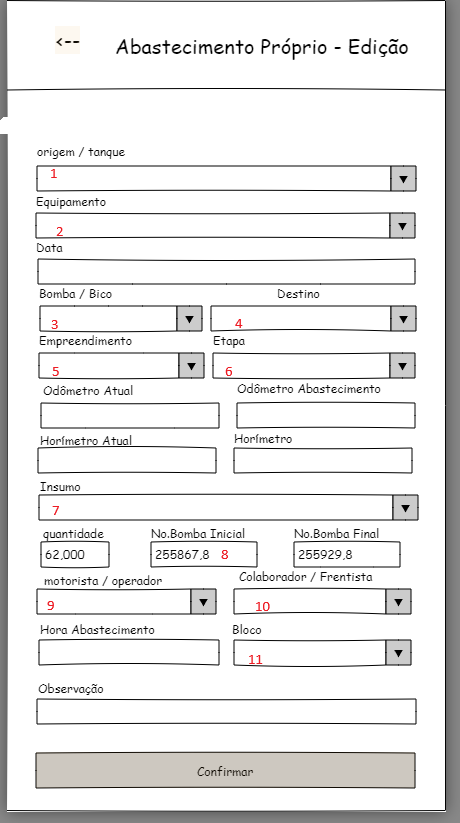
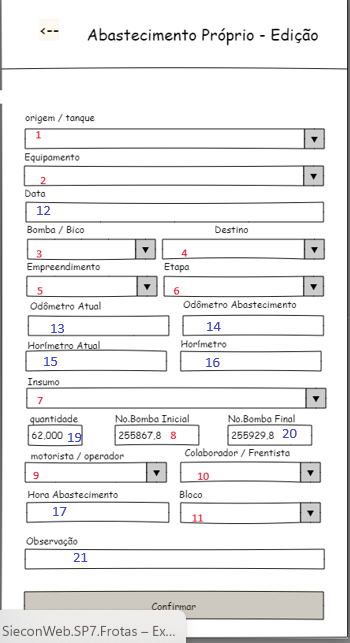
1.Ticket:514781 1.1. Cli. Poliview 1.2. Info: API web para Requisição com OS e Abastecimento

diff --git a/Documentacao/Frt_ApiFrotas.md b/Documentacao/Frt_ApiFrotas.md
@@ -53,24 +53,150 @@
 ** **Obs.** O Campo  tpAbastecimento = 0  --> Abastecimento próprio ,
                      tpAbastecimento = 1  --> Abastecimento em Postos
 
-##### 1.3. API para utilização conforme layout -Pesquisa Abastecimento Próprio
+##### 1.3. /api/frotas/Abastecimentos/ConsultaBomba
+* **Listas as Bombas de Abastecimentos**
+
+```json
+{
+{
+    "bombaCod": "string",
+    "bombaDescricao": "string",
+    "tipo": "string",
+    "tipoDesc": "string",
+    "ctrNumeracao": 0,
+    "bombaNumeracao": 0,
+    "bloqueado": 0,
+    "bombaCodExterno": 0,
+    "entidadeCod": 0,
+    "empreendimentoCod": 0,
+    "empreendimentoId": "3fa85f64-5717-4562-b3fc-2c963f66afa6",
+    "entidadeId": "3fa85f64-5717-4562-b3fc-2c963f66afa6",
+    "bombaId": "3fa85f64-5717-4562-b3fc-2c963f66afa6"
+  }
+}
+```  
+##### 1.4. /api/frotas/Abastecimentos/ConsultaBico
+* **Lista os bicos de abastecimentos referente a bomba**
+```json
+{ 
+  {
+    "bicoCdg": 0,
+    "bombaCod": "string",
+    "bicoDescricao": "string",
+    "bicoCodExterno": 0,
+    "bicoId": "3fa85f64-5717-4562-b3fc-2c963f66afa6",
+    "bombaDescricao": "string",
+    "bombaId": "3fa85f64-5717-4562-b3fc-2c963f66afa6"
+  }
+}
+```  
+##### 1.5. /api/frotas/Abastecimentos/ConsultaDestinoAbastecimentos
+* **Lista os Destinos referente ao lançamento do abastecimento **
+```json
+{
+  {
+    "destino": "EQ",
+    "destinoDesc": "Equipamento",
+    "destinoTipo": "M",
+    "destinoid": "00000000-0000-0000-0000-000000000000",
+    "emprdCod": 0,
+    "emprdId": "00000000-0000-0000-0000-000000000000"
+  },
+  {
+    "destino": "02",
+    "destinoDesc": "BOMBA 002",
+    "destinoTipo": "B",
+    "destinoid": "7cd6573e-0853-482f-a5e5-129f9fd1b5e2",
+    "emprdCod": 50,
+    "emprdId": "72603b1c-7037-4bca-b74e-3267a6c6b972"
+  },
+  {
+    "destino": "03",
+    "destinoDesc": "CAMBOIO 001",
+    "destinoTipo": "C",
+    "destinoid": "47727e15-af67-4dad-a580-73caf5afda2d",
+    "emprdCod": 50,
+    "emprdId": "72603b1c-7037-4bca-b74e-3267a6c6b972"
+  },
+  {
+    "destino": "DV",
+    "destinoDesc": "Devolução Estoque emprd.",
+    "destinoTipo": "D",
+    "destinoid": "00000000-0000-0000-0000-000000000000",
+    "emprdCod": 0,
+    "emprdId": "00000000-0000-0000-0000-000000000000"
+  }
+  
+}
+```  
+##### 1.6. /api/frotas/Abastecimentos/ConsultaAplicacaoPrevEquipInsumo
+* **Lista todas Itens no controle de preventivo do equipamento com sua aplicação**
+```json
+{
+   {
+    "aplicacaoCdg": 0,
+    "aplicacaoDescr": "string",
+    "aplicacaoId": "3fa85f64-5717-4562-b3fc-2c963f66afa6",
+    "insumoCod": "string",
+    "insumoDesc": "string",
+    "insumoId": "3fa85f64-5717-4562-b3fc-2c963f66afa6",
+    "quantidade": 0
+  }
+}
+```  
+##### 1.7. /api/frotas/Abastecimentos/ConsultaEstoqueComboio
+* **Lista todos os insumos que estão no estoque do Comboio**
+```json
+{
+  {
+    "insumoCdg": "03.03.0012",
+    "insumoDescr": "COMBUSTIVEL (DIESEL S-10)",
+    "insumoId": "9da5914f-e527-4002-a92b-3c150c30fbd6",
+    "unidade": "L         ",
+    "quantidade": 5000,
+    "partnumber": null,
+    "fabricante": null,
+    "origem": 1,
+    "pnsimilar": 0,
+    "entidadeCod": 1,
+    "entidadeId": "5bf70be2-54cb-4a52-abd5-a087c5ee6f37",
+    "controleAbastecimento": 1
+  }
+  
+}
+```  
+##### 1.8. /api/frotas/Abastecimentos/ConsultaUltimoNumeroBico
+* **Mostra o último número  utilizado na bomba**
+```json
+{
+   "numeracao": 0,
+    "abastecimentoData": "2025-10-29T20:00:02.842Z",
+    "abastecimentoCod": 0,
+    "abastecimentoId": "3fa85f64-5717-4562-b3fc-2c963f66afa6"
+}
+```  
+##### 1.9. /api/frotas/Abastecimentos/GravaAbastecimento
+* **Grava o abastecimento próprio ou de posto**
+
+
+##### 1.10. API's para utilização conforme layout -Pesquisa Abastecimento Próprio
 
 ![](./Frt_ApiFrotas/image4.png)
 
 * 1 - "Origem/Tanque"     --> Utilizar a  /api/frotas/Abastecimentos/ConsultaBomba
-* 2 - "Equipamento"       --> Utilizar a  /api/frotas/Lookups/Equipamentos
+* 2 - "Equipamento"       --> Utilizar a  /api/frotas/Lookups/EquipamentosMobile
 
 **Utilizar a Api para consulta dos abastecimentos:  /api/frotas/Abastecimentos/ConsultaAbastecimento** com o parâmetro fixo:
 "TpAbastecimento" = 0 ;
 
 Para retornar somente os abastecimentos com a origem do App, passar o parâmetro "Origem"  = 3
 
-##### 1.4. API para utilização conforme layout -Grava Abastecimento Próprio
+##### 1.11. API para utilização conforme layout -Grava Abastecimento Próprio
 
 ![](./Frt_ApiFrotas/image5.png)
 
 * 1 - "Origem/Tanque"         --> Utilizar a  /api/frotas/Abastecimentos/ConsultaBomba
-* 2 - "Equipamento"           --> Utilizar a  /api/frotas/Lookups/Equipamentos .
+* 2 - "Equipamento"           --> Utilizar a  /api/frotas/Lookups/EquipamentosMobile .
 * 3 - "Bico"                  --> Utilizar a  /api/frotas/Abastecimentos/ConsultaBico.  **Passar como parâmetro(Id) o bombaId selecionado na consulta da Bomba  "**
 * 4 - "Destino"               --> Utilizar a  /api/frotas/Abastecimentos/ConsultaDestinoAbastecimentos **Passar como parâmetro(bombaId) o bombaId selecionado na consulta da Bomba  "**
 * 5 - "Empreendimento"        --> Utilizar a  /api/cadastros/Lookups/Empreendimentos     **Carregar a Combo do empreendimento com o Emprd. de retorno da Seleção "Origem/Tanque**
@@ -78,22 +204,35 @@ Para retornar somente os abastecimentos com a origem do App, passar o parâmetro
 * 7 - "Insumo"                --> Utilizar a  /api/frotas/Abastecimentos/ConsultaEstoqueComboio **Passar como parâmetro(bombaId), selecionado na Consulta Bomba**
 * 8 - "BombaInicial"          --> Utilizar a /api/frotas/Abastecimentos/ConsultaUltimoNumeroBico **Passar como parâmetros(bombaId e bicoId ), selecionado nas consultas ConsultaBomba e      ConsultaBico**
 * 9 - "Motorista/Operador"    --> Utilizar a /api/frotas/OrdensServico/ConsultaColaborador com o parâmetro "Classificacao" = 1
-  *10 - "Colaborador Frentista" --> Utilizar a /api/cadastros/Lookups/Pessoas   **Passar como parâmetro("tipoPessoa": "Funcionário")**
-  *11 - "Bloco"                 --> Utilizar /api/cadastros/Lookups/Unidades  **Passar como parâmetro(empreendimentoId), selecionado na consulta do empreendimento**
+* 10 - "Colaborador Frentista" --> Utilizar a /api/cadastros/Lookups/Pessoas   **Passar como parâmetro("tipoPessoa": "Funcionário")**
+* 11 - "Bloco"                 --> Utilizar /api/cadastros/Lookups/Unidades  **Passar como parâmetro(empreendimentoId), selecionado na consulta do empreendimento**
+* **Campo Novo -- "Aplicação"**    --> Utilizar /api/frotas/Abastecimentos/ConsultaAplicacaoPrevEquipInsumo  **Passar como parâmetro(EquipamentoId,InsumoId), selecionado na consulta do    equipamento e Insumo** , habiltar combo somente se consulta "Aplicação" retornar regsitro 
+* **Campo Novo -- "Troca/Reposição"**    -->  Fazer uma Combo com "T - Troca" e "R - Reposição" , habiltar combo somente se consulta "Aplicação" retornar regsitro 
 
 **** **Utilizar para Gravar Abastecimento Próprio  a  /api/frotas/Abastecimentos/GravaAbastecimento**
-Parêmetros Obrigatórios para criar um Abastecimento Próprio:
+Parâmetros Obrigatórios para criar um Abastecimento Próprio:
 **{TpAbastecimento} --> 0**
-{DataAbastecimento}
-{TpDestino}
-{IdTanqueOrigem}
-{IdBico}
-{IdEquipamento}
-{IdInsumo}
-{QtdInsumo}
+{DataAbastecimento} , Data do Abastecimento        (12-informado no print Grava Abastecimento Próprio)
+{TpDestino}         , Destino do abastecimento     (4 - informado no print Grava Abastecimento Próprio)
+{IdTanqueOrigem}    , Origem/Tanque                (1 - informado no print Grava Abastecimento Próprio)
+{IdBico}            , Bico da Bomba                (3 - informado no print Grava Abastecimento Próprio)
+{IdEquipamento}     , Equipamento                  (2 - informado no print Grava Abastecimento Próprio), campo Obrigatório quando destinoTipo="M"(retorno da api ConsultaDestinoAbastecimentos)
+{IdInsumo}          , Insumo                       (7 - informado no print Grava Abastecimento Próprio)
+{QtdInsumo}         , Quantidade Digitada          (19- informado no print Grava Abastecimento Próprio)
 {Origem}   --> Campo interno do SienconSp7,não preenchido pelo usuário para MoBile utilizar Sempre **ORIGEM =3**
 
-##### 1.5. API para utilização conforme layout -Pesquisa Abastecimento Posto
+Parâmetros Não Obrigatórios para criar um Abastecimento Próprio:
+{Horimetro}                , Horímetro Digitado        (16-informado no print Grava Abastecimento Próprio)
+{Odometro}                 , Odômetro Digitado         (14-informado no print Grava Abastecimento Próprio)
+{OperadorSolicitanteId}    , Motorista/Operador          (9-informado no print Grava Abastecimento Próprio)
+{NumBicoInicial}           , Numero Bomba Inicial       (8-informado no print Grava Abastecimento Próprio)
+{NumBicoFinal}             , Numero Bomba Final        (20-informado no print Grava Abastecimento Próprio)
+{IdEmprd}                  , Empreendimento            (5-informado no print Grava Abastecimento Próprio)
+**{TipoPrevAbast},         , Campo Novo                "Troca/Reposição", sendo "T" para Troca  "R" para Reposição
+{AplicacaoPrevId}          , Campo Novo                "Aplicação", Utilizar o parâmetro ("aplicacaoId" do resultado da api ConsultaAplicacaoPrevEquipInsumo )**,   
+{IdTanqueDestino},         , Informar resultado do campo destino a api ConsultaDestinoAbastecimentos quando destinoTipo<>"M"
+
+##### 1.12. API para utilização conforme layout -Pesquisa Abastecimento Posto
 
 ![](./Frt_ApiFrotas/image6.png)
 
@@ -103,25 +242,43 @@ Parêmetros Obrigatórios para criar um Abastecimento Próprio:
 **Utilizar a Api para consulta dos abastecimentos:  /api/frotas/Abastecimentos/ConsultaAbastecimento** com o parâmetro fixo:
 "TpAbastecimento" = 1 ;
 
-##### 1.6. API para utilização conforme layout -Gravar Abastecimento Posto
+##### 1.13. API para utilização conforme layout -Gravar Abastecimento Posto
 
 ![](./Frt_ApiFrotas/image7.png)
 
-* 1 - "Fornecedor"      --> Utilizar a /api/cadastros/Lookups/Pessoas   **Passar como parâmetro("tipoPessoa": "Fornecedor")**
-* 2 - "Equipamento"     --> Utilizar a  /api/frotas/Lookups/Equipamentos
+* 1 - "Equipamento"        --> Utilizar a  /api/frotas/Lookups/EquipamentosMobile
+* 2 - "Empreendimento"     --> Utilizar a  /api/cadastros/Lookups/Empreendimentos
+* 3 - "Empresa"            --> Utilizar a  /api/cadastros/Lookups/Empresas  **Passar como parâmetro("tipoEmpresa":0)**
+* 4 - "Centro de Despesa"  --> Utilizar a  /api/cadastros/Lookups/PlanoContasDespesas , utilizar como LookupKey "planoContasPadraoId" do retorno do Insumo
+* 5 - "Etapa"              --> Utilizar a  /api/orcamentos/Lookups/Etapas  **Passar como parâmetro(empreendimentoId), selecionado na consulta do empreendimento**
+* 6 - "Insumo"             --> Utilizar a  /api/suprimentos/Lookups/Insumos **Passar como parâmetros("empreendimentoId" selecionado em  "Empreendimento" e "somenteInsumosDeAbastecimento" = true)**
+* 8.1 - "Bloco"            --> Utilizar a  /api/cadastros/Lookups/Blocos   **Passar como parâmetro("empreendimentoId")**
+* Campo Novo  - "Fornecedor"         --> Utilizar a /api/cadastros/Lookups/Pessoas   **Passar como parâmetro("tipoPessoa": "Fornecedor")**
+
 
 **** **Utilizar para Gravar Abastecimento de Posto a  /api/frotas/Abastecimentos/GravaAbastecimento**
-Parêmetros Obrigatórios para criar um Abastecimento Próprio:
+Parâmetros Obrigatórios para criar um Abastecimento Posto:
 **{TpAbastecimento} --> 1**
-{DataAbastecimento}
-{FornecedorId}
-{EquipamentoId}
-{IdInsumo}
-{QtdInsumo}
-{PrcUniInsumo}
-{IdEmprd}
-{EmpresaId}
-{Origem}  --> Campo interno do SienconSp7,não preenchido pelo usuário para MoBile utilizar Sempre **ORIGEM =3**
+{DataAbastecimento} , Data Retirada        (13-informado no print Grava Abastecimento em posto)
+{IdFornecedor}     ,  Fornecedor           (Campo Novo)
+{IdEquipamento}    ,  Equipamento          (1-informado no print Grava Abastecimento em posto)
+{IdEmprd}          ,  Empreendimento       (2-informado no print Grava Abastecimento em posto)
+{IdEmpresa}        ,  Empresa              (3-informado no print Grava Abastecimento em posto)
+{IdCentroDespesa}  ,  Centro de Despesa    (4-informado no print Grava Abastecimento em posto)
+{IdEtapa}          ,  Etapa                (5-informado no print Grava Abastecimento em posto)
+{IdInsumo}         ,  Insumo               (6-informado no print Grava Abastecimento em posto)
+{IdBloco}          ,  Bloco                (8-informado no print Grava Abastecimento em posto)
+{QtdInsumo}        ,  Quantidade Solicitada e Retirada (11 e 14 -informado no print Grava Abastecimento em posto), Informando a Quantidade Solicitada preencher a Quantidade Retirada, será a mesma 
+{TotalAbastecimentoPosto} ,   Valor Solicitada e Total (12 e 15 -informado no print Grava Abastecimento em posto), Informando a Quantidade Solicitada preencher a Quantidade Retirada, será a mesma 
+{Origem}  --> Campo interno do SienconSp7,não preenchido pelo usuário para Mobile utilizar Sempre **ORIGEM =3**
+
+Parãmetros Não Obrigatórios para criar um Abastecimento Posto:
+{Observacao}         ,  Observação           (7-informado no print Grava Abastecimento em posto)
+{Odometro},          ,  Odômetro             (16-informado no print Grava Abastecimento em posto)
+{Horimetro}          ,  Horímetro            (17-informado no print Grava Abastecimento em posto)
+{NumeroControlePosto},  Nº Controle do Posto (18-informado no print Grava Abastecimento em posto) 
+{Retorno}            ,  Retorno              (19-informado no print Grava Abastecimento em posto) **Default para o usuário sempre Checado =1**      0 Não Checado  e 1 Para Checado 
+{Estoque}            ,  Estoque              (20-informado no print Grava Abastecimento em posto) **Default para o usuário sempre Não Checado =0**  0 Não Checado  e 1 Para Checado 
 
 #### 2. API Comuns
 
@@ -129,7 +286,7 @@ Parêmetros Obrigatórios para criar um Abastecimento Próprio:
 
 * Lista todos os insumos de uma entidade
 
-##### 2.2. /api/frotas/Lookups/Equipamentos
+##### 2.2. /api/frotas/Lookups/EquipamentosMobile
 
 * Lista todos os equipamentos
 
@@ -137,7 +294,7 @@ Parêmetros Obrigatórios para criar um Abastecimento Próprio:
 
 * Lista todos os empreendimentos
 
-#### 3. API Ordem de Serviço
+#### 3. API's para  Ordens de Serviço
 
 ##### 3.1. /api/frotas/OrdensServico/ConsultaGeralOrdensServico
 
@@ -145,42 +302,45 @@ Parêmetros Obrigatórios para criar um Abastecimento Próprio:
 
 ##### 3.3. /api/frotas/Lookups/CausaIntervencao
 
+
 ##### 3.4. API para utilização conforme layout -Pesquisa
 
 ![](./Frt_ApiFrotas/image2.png)
 
 * 1 - "Número Os"             --> Inserir somente o numero
-* 2 - "Empreendimento"    --> Utilizar a  /api/cadastros/Lookups/Empreendimentos
-* 3 - "Equipamento"          --> Utilizar a  /api/frotas/Lookups/Equipamentos
-* 4 - "Causa Intervenção" --> Utilizar a  /api/frotas/Lookups/CausaIntervencao
-* 5 - "Manutentor"             --> Utilizar a /api/frotas/OrdensServico/ConsultaColaborador com o parâmetro "Classificacao" = 2
-* 6 - "Status"                     --> Fazer uma Combo com os Status existentes na OS.
+* 2 - "Empreendimento"        --> Utilizar a  /api/cadastros/Lookups/Empreendimentos
+* 3 - "Equipamento"           --> Utilizar a  /api/frotas/Lookups/EquipamentosMobile
+* 4 - "Causa Intervenção"     --> Utilizar a  /api/frotas/Lookups/CausaIntervencao
+* 5 - "Manutentor"           --> Utilizar a /api/frotas/OrdensServico/ConsultaColaborador com o parâmetro "Classificacao" = 2
+* 6 - "Status"               --> Fazer uma Combo com os Status existentes na OS.
   Codigo	Descrição do Status
   0	      Aberta
   1	      Serviço Iniciado
   2	      Serviço Concluido
   3	      Fechada
   4	      Reprov./Cancelada
- 
+
 **Utilizar para a consulta das OS a /api/frotas/OrdensServico/ConsultaGeralOrdensServico**
 
-##### 3.5. API para utilização conforme layout - edição/Insert Aba Principal 
+##### 3.5. API para utilização conforme layout - edição/Insert Aba Principal
+
 ![](./Frt_ApiFrotas/image3.png)
 
 ##### 3.5.1  API para utilização conforme layout - edição/Insert Aba Defeitos/Causa
+
 ![](./Frt_ApiFrotas/image8.png)
 
-
 ##### 3.5.2  API para utilização conforme layout - edição/Insert Aba Observação
+
 ![](./Frt_ApiFrotas/image9.png)
 
-
 ##### 3.5.2  API para utilização conforme layout - edição/Insert Aba Fotos
+
 ![](./Frt_ApiFrotas/image10.png)
 
  **Metodos Get's  para Carregar os Campos/Combos**
 
-* 1 - "Equipamento"          --> Utilizar a  /api/frotas/Lookups/Equipamentos  
+* 1 - "Equipamento"          --> Utilizar a  /api/frotas/Lookups/EquipamentosMobile
 * 2 - "Empreendimento"       --> Utilizar a  /api/cadastros/Lookups/Empreendimentos
 * 3 - "Classificação"        --> Utilizar a  /api/livrosfiscais/Lookups/ClassificacaoServico
 * 4 - "Tipo"                 --> Utilizar a /api/frotas/Lookups/TipoOs
@@ -194,28 +354,28 @@ Parêmetros Obrigatórios para criar um Abastecimento Próprio:
 
 **** **Utilizar para Gravar OS a  /api/frotas/OrdensServico/GravarOrdemServico**
 **** **Utilizar para Gravar Fotos  a  /api/frotas/OrdensServico/GravarOrdemServicoFoto**
-Parêmetros Obrigatórios para criar uam OS:
+Parâmetros Obrigatórios para criar uam OS:
 {EquipamentoId}   --> Id do equipapamento   - (1-informado no print de Ordem de Serviço Edição ,Aba Principal)
-{Descricao}       --> Descrição da OS       - (11-informado no print de Ordem de Serviço Edição,Aba Principal) 
-{Origem}          --> Campo interno do SienconSp7,não preenchido pelo usuário para MoBile utilizar Sempre **ORIGEM =3**
+{Descricao}       --> Descrição da OS       - (11-informado no print de Ordem de Serviço Edição,Aba Principal)
+{Origem}          --> Campo interno do SienconSp7,não preenchido pelo usuário para Mobile utilizar Sempre **ORIGEM =3**
 
 Parêmetros Não Obrigatórios para criar  OS:
 {OsId}                    --> Id da OS - passar somente quando for edição, no Insert o método GravarOrdemServico, retorno o Id da Os Gerada
 {OsDataAbertura}          --> Data de Abertura                - (12-informado no print de Ordem de Serviço Edição,Aba Principal)
 {OsDataConclusao}         --> Data de Abertura                - (13-informado no print de Ordem de Serviço Edição,Aba Principal)
-{Odometro}                --> Odometro digitado 
-{Horimetro}               --> Horímetro digitado 
+**{Odometro}                --> Odometro                      - Campo Novo a ser criado no PDF -- (Odômetro)** , Habitar quando tipoControle(retorno da api EquipamentosMobile) = 'A' or 'V'
+**{Horimetro}               --> Horímetro                     - Campo Novo a ser criado no PDF -- (Horímetro)**, Habitar quando tipoControle (retorno da api EquipamentosMobile)= 'A' or 'H'
 {Observacao}              --> Observação                      - (16-informado no print de Ordem de Serviço Edição,Aba Observação)
 {ObsDef}                  --> Defeitos Constatados            - (14-informado no print de Ordem de Serviço Edição,Aba Defeitos/Causa)
 {ObsCausas}               --> Causas Prováveis                - (15-informado no print de Ordem de Serviço Edição,Aba Defeitos/Causa)
-{ObsProvidencias}         --> Providencias  
-{FornecedorId}            --> Fornecedor   
+{ObsProvidencias}         --> Providencias
+{FornecedorId}            --> Fornecedor
 {EmprdintervencaoId}      --> Empreendiemnto de Intervenção   - (7-informado no print de Ordem de Serviço Edição,Aba Principal)
 {CausasId}                --> Causa da Intervenção            - (5-informado no print de Ordem de Serviço Edição,Aba Principal)
 {MotoristaOperadorId}     --> Operador/Motorista              - (6-informado no print de Ordem de Serviço Edição,Aba Principal)
 {EquipBloqueado}          --> Equipamento Bloqueado - 0 Não bloquedo/ 1 Bloqueado
 {EmprdAberturaId}         --> Empreendiemnto de Intervenção   - (2-informado no print de Ordem de Serviço Edição,Aba Principal)
-{NfFornecedor}            --> Fornecedor externo 
+{NfFornecedor}            --> Fornecedor externo
 {ManutentorResponsavelId} --> Manutentor                      - (9-informado no print de Ordem de Serviço Edição,Aba Principal)
 {ClassificacaoId}         --> Classificação                   - (3-informado no print de Ordem de Serviço Edição,Aba Principal)
 {TipoServicoId}           --> Tipo                            - (4-informado no print de Ordem de Serviço Edição,Aba Principal)
